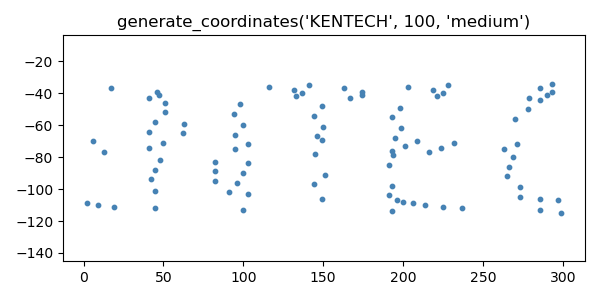
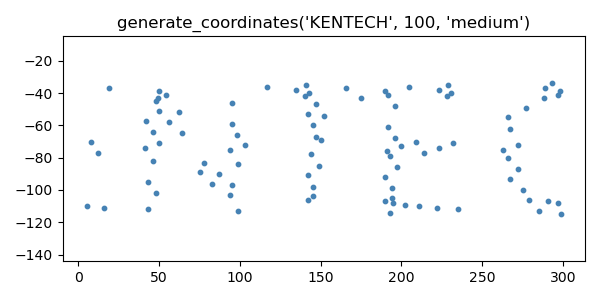
font

diff --git a/src/coordinate.py b/src/coordinate.py
@@ -16,6 +16,26 @@ from config import IMAGE_SIZE, SIZES
 # size 문자열 → 배율 매핑
 _SCALE = {"small": 1.0, "medium": 1.5, "large": 2.0}
 
+# Pillow가 "arial.ttf"만 찾으면 기본 비트맵 폰트로 떨어져 픽셀이 부족해진다.
+# OS별로 흔한 sans-serif 경로를 순서대로 시도한다.
+_FONT_CANDIDATES = (
+    "arial.ttf",
+    "/System/Library/Fonts/Supplemental/Arial.ttf",
+    "/System/Library/Fonts/Helvetica.ttc",
+    "C:/Windows/Fonts/arial.ttf",
+    "/usr/share/fonts/truetype/dejavu/DejaVuSans.ttf",
+    "/usr/share/fonts/truetype/liberation/LiberationSans-Regular.ttf",
+)
+
+
+def _load_sans_font(size: int) -> ImageFont.FreeTypeFont | ImageFont.ImageFont:
+    for path in _FONT_CANDIDATES:
+        try:
+            return ImageFont.truetype(path, size)
+        except (OSError, IOError):
+            continue
+    return ImageFont.load_default()
+
 
 def generate_coordinates(text: str, n: int, size: str) -> np.ndarray:
     """
@@ -60,11 +80,7 @@ def generate_coordinates(text: str, n: int, size: str) -> np.ndarray:
 
     # 기본 폰트 크기는 이미지 높이의 75% 수준으로 설정
     font_size = max(10, int(h * 0.75))
-    try:
-        font = ImageFont.truetype("arial.ttf", font_size)
-    except (IOError, OSError):
-        # 시스템에 Arial이 없을 경우 기본 비트맵 폰트 사용
-        font = ImageFont.load_default()
+    font = _load_sans_font(font_size)
 
     # 텍스트를 이미지 중앙에 배치
     bbox = draw.textbbox((0, 0), text, font=font)
